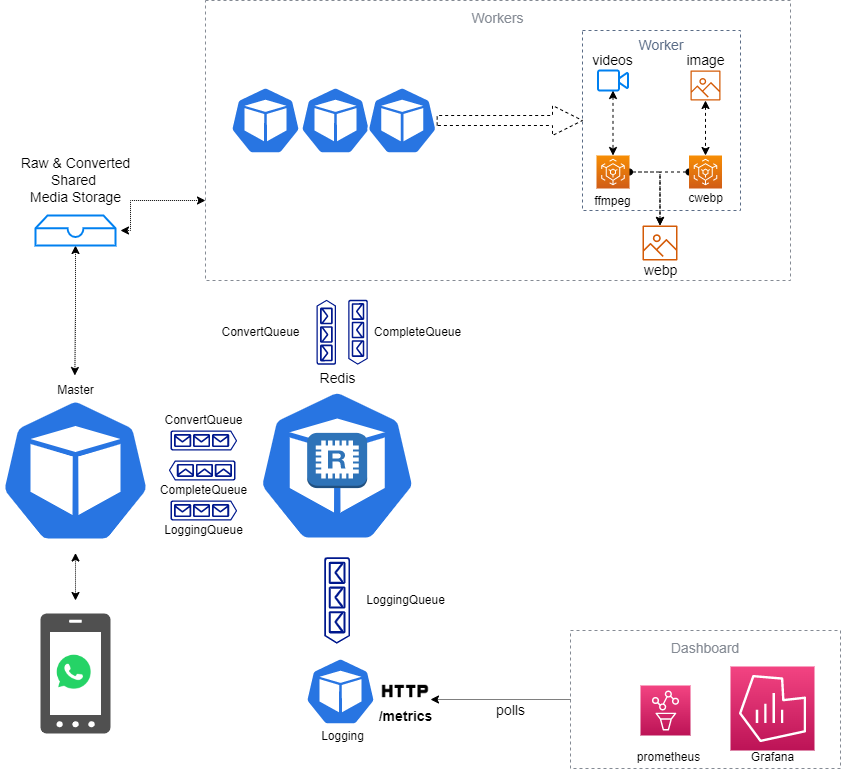
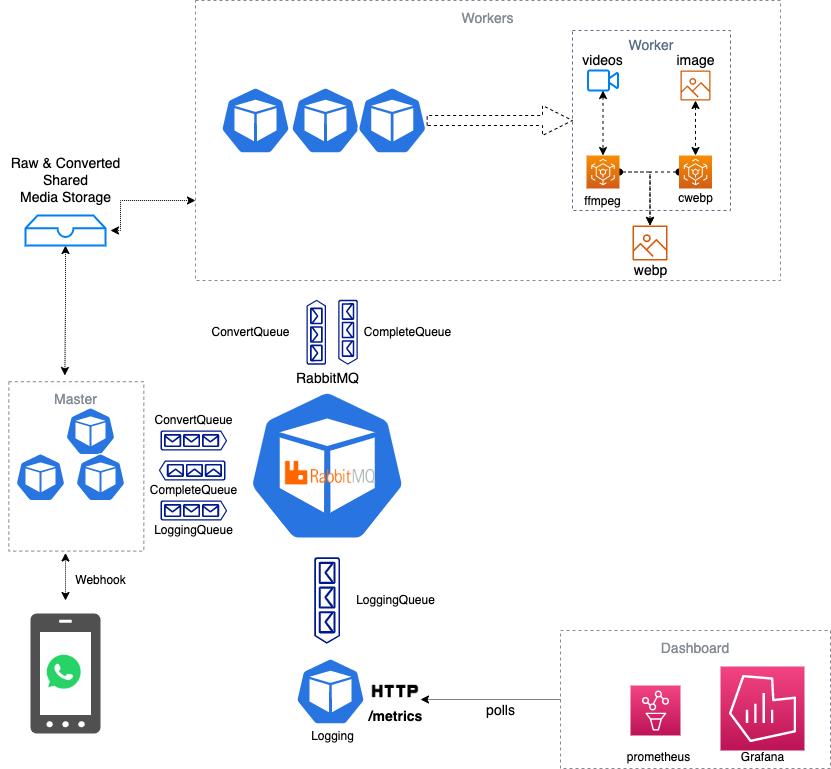
Modifying arch-diagram

diff --git a/README.md b/README.md
@@ -1,12 +1,10 @@
 # Whatsticker
 
-:warning: :warning: The live number is currently banned by WhatsApp so it no longer works, we are investigating ways to avoid ban, one of which may involve a hefty rewrite to use whatsapp official api :warning: :warning:
-
 <p align="left"><img src="assets/logo.jpg" alt="mythra" height="100px"></p>
-A Whatsapp bot that turns pictures, small videos and gifs into stickers with the caption <b><u><a name="caption">stickerize</u></a></b>
+A Whatsapp bot that turns pictures, small videos and gifs into stickers
 
 
-[Chat with Whatsticker](https://wa.me/19293792260)
+[Chat with Whatsticker](https://wa.me/15550089659)
 
 
 ## Usage
@@ -21,8 +19,9 @@ If you are not interested in running a copy of the project then feel free to use
 
  - [Go 1.17](https://go.dev/)
  - [Docker Compose](https://docs.docker.com/compose/install/)
+ - [Ngrok](https://ngrok.com/)
 
-### Generating Credentials
+### Setting up
 
  - Download Go modules
 
@@ -30,30 +29,30 @@ If you are not interested in running a copy of the project then feel free to use
    # Downloads go modules
    go mod tidy
    ```
- - Run `go run main.go` to show qr code for login on terminal
+ - Create a meta business app for whatsapp cloud API found here [WhatsApp FAQ](https://developers.facebook.com/docs/whatsapp/cloud-api/get-started). Make sure to add the whatsapp [product](https://developers.facebook.com/docs/development/create-an-app/app-dashboard#products-2) for the app.
+ - Retrieve the access token from the app to be later used as `BEARER_ACCESS_TOKEN`
+ - Start ngrok on port 9000 (using us region or adding the webhook would be an [issue](https://github.com/inconshreveable/ngrok/issues/427))
+  
+   ```bash
+   ngrok -http 9000 --region us
+   ```
+ - Create a webhook by following [Configure WebHook](https://developers.facebook.com/docs/whatsapp/cloud-api/get-started#configure-webhooks) and add the ngrok link given to you. Save the verify token add to be later used as `VERIFY_TOKEN`.
+ - Configure the webhook to [subscribe to messages](https://developers.facebook.com/docs/graph-api/webhooks/getting-started#configure-webhooks-product).
 
-   ![Example QR Code](assets/qrcode.webp)
-
- - Link device as explained on [WhatsApp FAQ](https://faq.whatsapp.com/web/download-and-installation/how-to-link-a-device/)
-
- A folder `master/db/` will be automatically created containing sqlite db with credentials. No need to login over and over except logged out on main device. You can copy this folder to target machine and it still works
 
 ### Running The Bot
 
- - Ensure `master/db/examplestore.db` exists and run `docker-compose up`
- - Open any chat (Personal/Group) where the logged in number is present
- - Send media with [caption](#caption) and number should respond with sticker
+ - Export the necessary tokens
+ 
+  ```bash
+  export VERIFY_TOKEN=<xxxxxxx>
+  export BEARER_ACCESS_TOKEN=<xxxxxxx>
+  ```
+ - Run `docker-compose up`.
+ - In development you have to [add your number to the test numbers in the app](https://developers.facebook.com/docs/whatsapp/cloud-api/get-started/add-a-phone-number/) (or just [message the running bot in production](https://wa.me/15550089659))
+ - Send media in chat and bot should respond with sticker
 
 
-**WARNING**: `master/db/` folder will contain `examplestore.db` which docker-compose expects to load as a volume. Do not create a public image using this folder or commit to version control as it can be used to impersonate you
-
-## CLI Flags
-
-The following flags are available
-
-- `-log-level` : To switch between log verbosity between `INFO` and `DEBUG`
-- `-reply-to`  : Set to true if bot should quote original messages with reply
-- `-sender`    : Respond to only this jid e.g `234XXXXXXXXXX`
 
 ## Architecture
 ![Arch Diagram](assets/arch-diag.png)
@@ -63,10 +62,9 @@ Open the [architecture](assets/arch-diag.drawio) on [draw.io](https://draw.io)
 
 ## Limits/Issues
 
- - [ ] _Media sizes/length enforced by code_
- - [ ] _Some sticker results for videos are not animated (WebP size exceeds 1MB)_
- - [X] _Sometimes original media cannot be downloaded (especially for quoting older media messages with caption)_
- - [ ] _reply-to flag causes iOS users to be [incorrectly tagged](https://github.com/tulir/whatsmeow/issues/135)_
+ - [X] _Media sizes/length enforced by whatsapp (100KB image, 500KB video)_
+ - [ ] _Video conversion takes time using ffmpeg to be able to whittle away at quality in order to achieve 500KB_
+ - [ ] _Animated stickers (from videos) may not maintain aspect ratio_
 
 ## License
 
